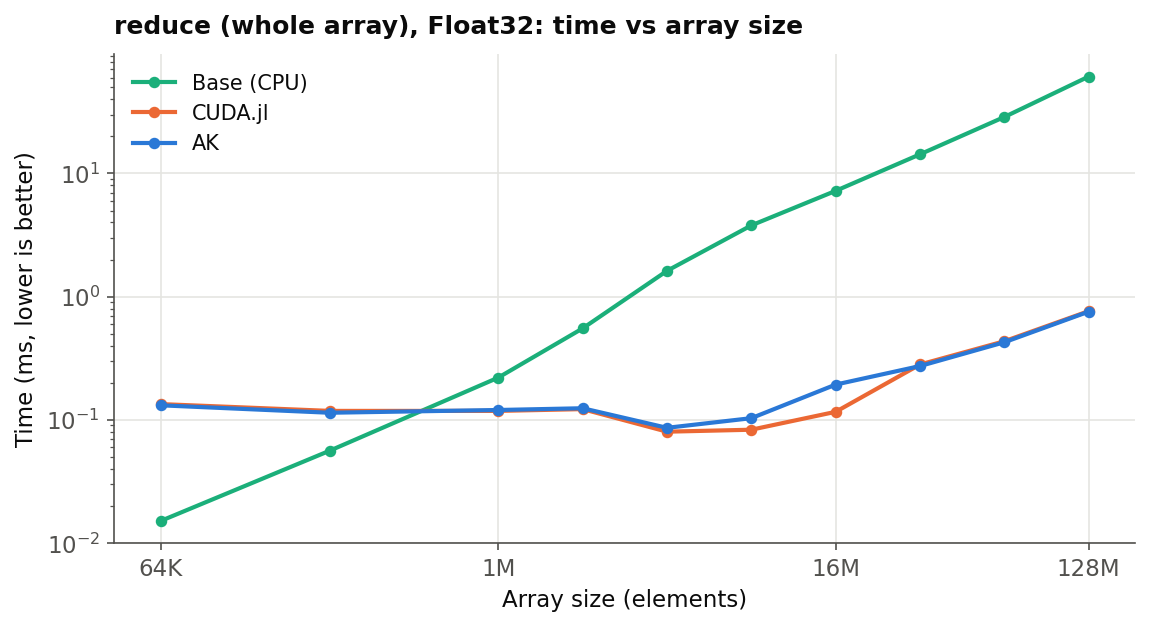
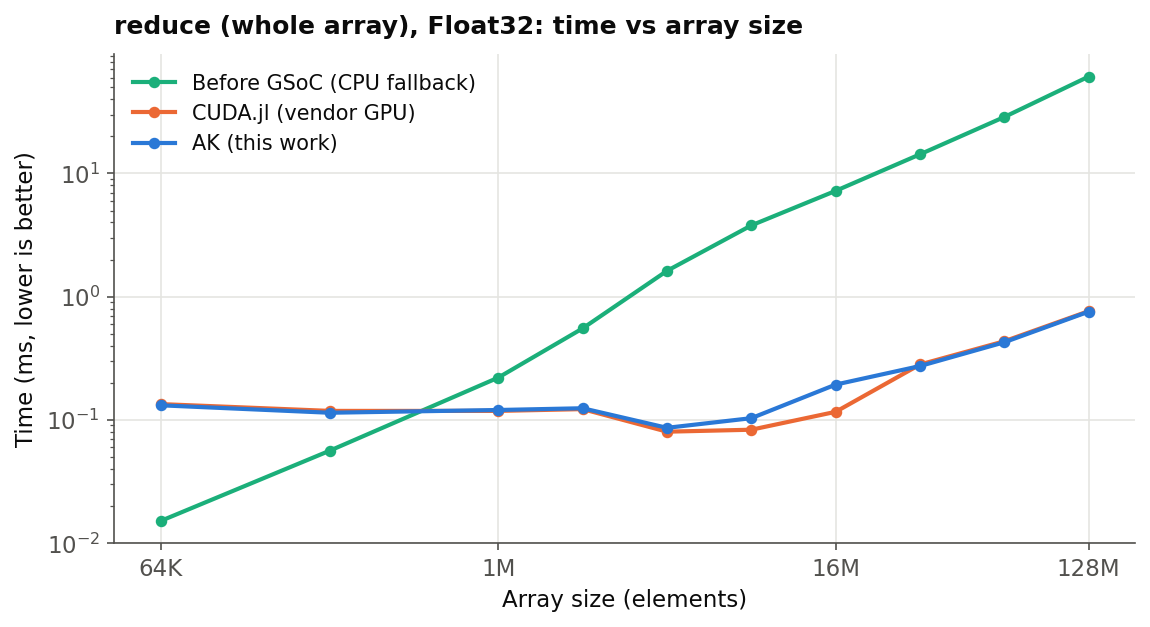
Frame benchmark charts as before-GSoC / CUDA.jl / AK story

Changed region(s): [[0.1826, 0.1212, 0.4261, 0.2424]]

diff --git a/post/2026-10-14-gsoc-portability/index.md b/post/2026-10-14-gsoc-portability/index.md
@@ -5,9 +5,9 @@ abstract = """
   This Google Summer of Code 2026 project added the data-parallel primitives that
   the Julia GPU stack was missing and tuned them to serve as the shared
   implementation for every backend. The work was merged as 15 pull requests in
-  AcceleratedKernels.jl 0.5. A benchmark compares each operation against
-  single-threaded CPU Julia and the current CUDA.jl GPU implementation on an
-  NVIDIA RTX 5080."""
+  AcceleratedKernels.jl 0.5. A benchmark on an NVIDIA RTX 5080 shows each operation
+  across three stages: the pre-GSoC CPU fallback, the existing CUDA.jl GPU path, and
+  the new AcceleratedKernels.jl kernels."""
 +++
 
 {{abstract}}
@@ -72,28 +72,31 @@ atomic histograms, chunked scatter), added a `BitonicSort` network for short sli
 and added a segmented `RadixSort` path for sorting along `dims` whose cost depends
 little on slice length. The `Auto()` selector chooses between them per input.
 
-**Benchmarking.** Each operation was measured three ways on the same data: as an AK
-kernel, as the CUDA.jl GPU path, and as single-threaded CPU Julia. The GPU runs were
-on an NVIDIA RTX 5080, timed on the device with `CUDA.@elapsed`, taking the minimum of
-12 runs, warmed, refreshing the input each iteration for mutating operations, and using
-AK's default settings with no per-device tuning. The CPU runs used single-threaded
-Julia (`Base`) on the host, timed with the minimum of a few warmed runs. The results
-per operation follow.
+**Benchmarking.** Each operation was measured three ways on the same data, to show the
+state of the stack before this work and after it. The GPU runs were on an NVIDIA RTX
+5080, timed on the device with `CUDA.@elapsed`, taking the minimum of 12 runs, warmed,
+refreshing the input each iteration for mutating operations, and using AK's default
+settings with no per-device tuning. The CPU runs used single-threaded Julia on the
+host, timed with the minimum of a few warmed runs. The results per operation follow.
 
 ## Results by operation
 
 In every chart, lower time is better, and both axes use a logarithmic scale unless
-noted. The three series are:
+noted. The three series read left to right as the history of the operation:
 
-- **Base (CPU):** single-threaded CPU Julia (`sort!`, `sortperm`, `cumsum!`, `sum`,
-  `findall`, `reverse!`, `map!`) on a host `Array`. This is the slowest reference and
-  sits above the two GPU lines.
-- **CUDA.jl:** the GPU method that runs today when the same standard function is called
-  on a `CuArray`, which goes through CUDA.jl and GPUArrays.jl.
-- **AK:** the AcceleratedKernels.jl kernel.
+- **Before GSoC (CPU fallback):** the result on a GPU backend that had no kernel for
+  the operation. Before this work, several of these operations had no portable GPU
+  implementation in the shared layer, so that case fell back to single-threaded CPU
+  execution (or failed outright). This line is that CPU fallback, and it marks the
+  starting point the project improved on.
+- **CUDA.jl (vendor GPU):** the GPU implementation that already shipped for CUDA,
+  reached by calling the standard function (`sort!`, `sortperm`, `cumsum!`, `sum`,
+  `findall`, `reverse!`, `map!`) on a `CuArray`, through CUDA.jl and GPUArrays.jl.
+- **AK (this work):** the AcceleratedKernels.jl kernel added during this project, which
+  is the single portable implementation every backend can now use.
 
-The comparison that matters for this project is `AK` against `CUDA.jl`, since both run
-on the GPU. `Base (CPU)` is included for context.
+So the three lines show the path from the pre-GSoC fallback, to the existing vendor GPU
+code, to the portable AK kernels.
 
 ### Sort
 
